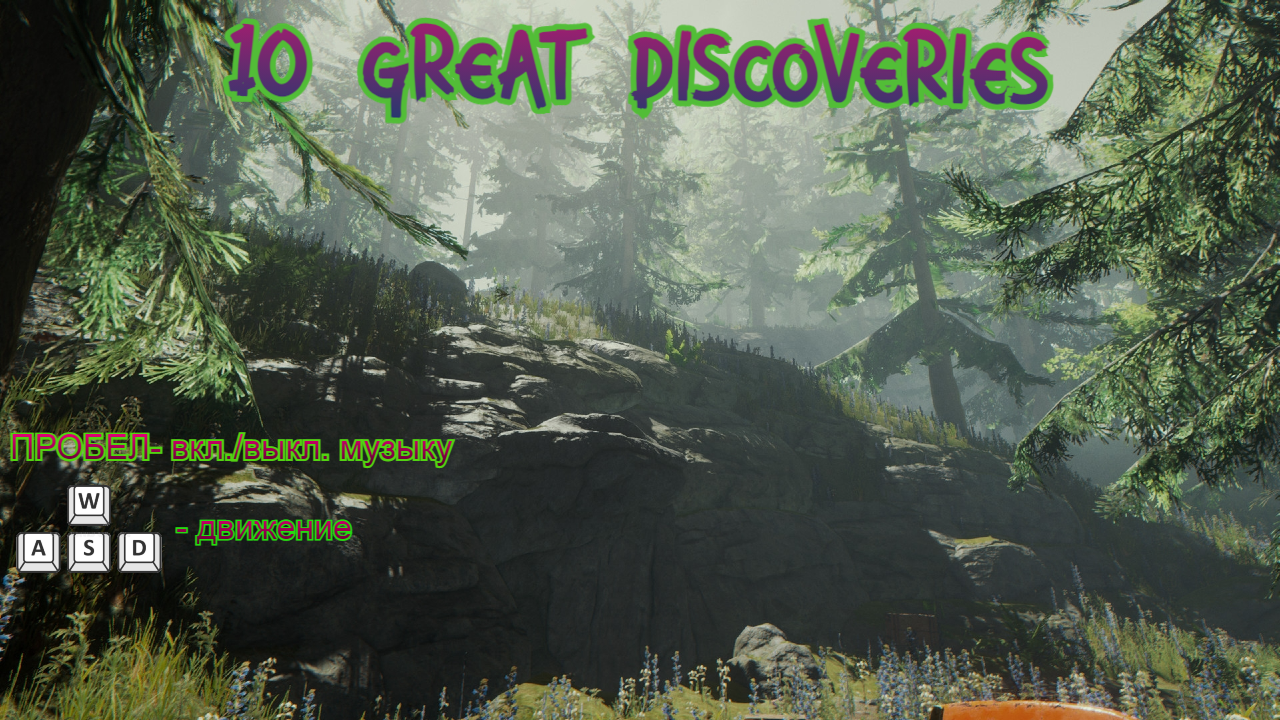
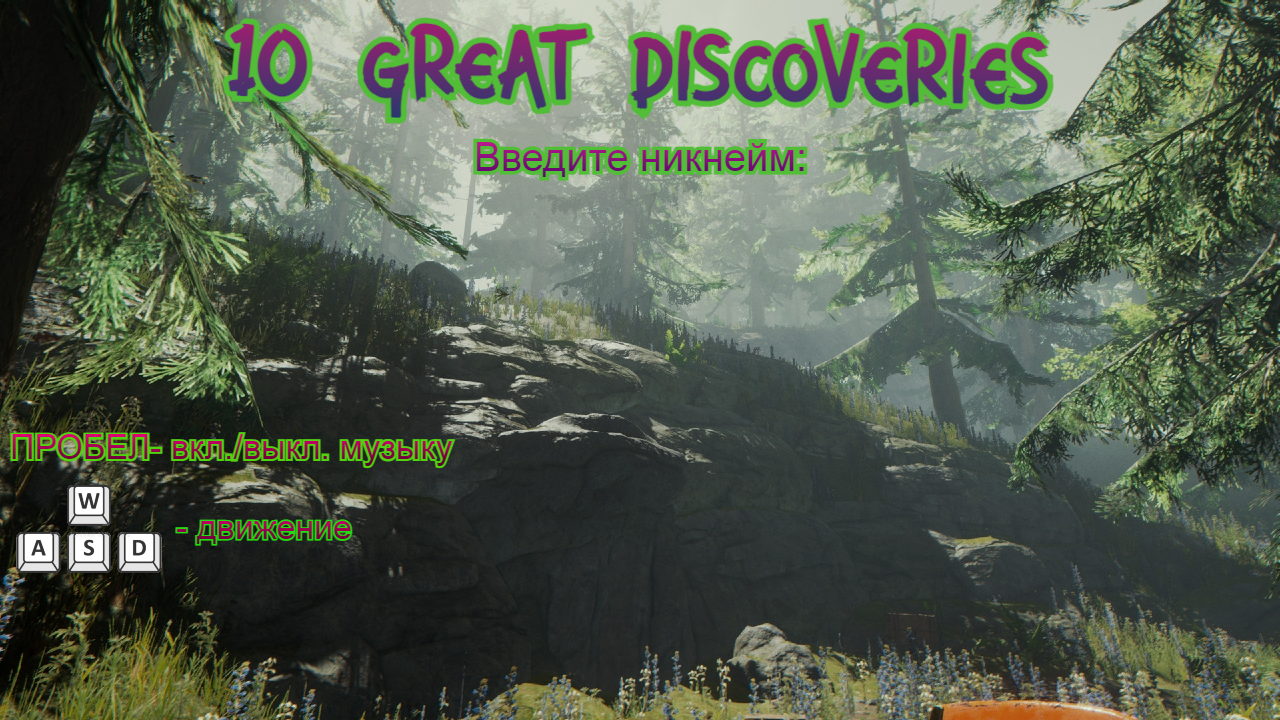
add nickname input and now color and background.png

Changed region(s): [[0.3438, 0.1833, 0.6562, 0.2444]]

diff --git a/functions/start_menu.py b/functions/start_menu.py
@@ -6,25 +6,25 @@ from levels import levels
 
 
 def start_menu(screen):
-    font = pygame.font.Font(None, 32)
-    input_box = pygame.Rect(100, 100, 140, 32)
-    color_inactive = pygame.Color('lightskyblue3')
-    color_active = pygame.Color('dodgerblue2')
+    font = pygame.font.Font(None, 50)
+    input_box = pygame.Rect(475, 190, 330, 40)
+    color_inactive = pygame.Color('#A719A3')
+    color_active = pygame.Color('#FF0000')
     color = color_inactive
     active = False
     text = ""
-    done = False
+    txt_surface = font.render(text, True, color)
     while levels.menu:
         for event in pygame.event.get():
             if event.type == pygame.QUIT:
                 terminate()
             if event.type == pygame.KEYDOWN:
-                if event.key == pygame.K_RETURN:
-                    text = ""
-                elif event.key == pygame.K_BACKSPACE:
-                    text = text[:-1]
-                else:
-                    text += event.unicode
+                if active:
+                    if event.key == pygame.K_BACKSPACE:
+                        text = text[:-1]
+                    else:
+                        if txt_surface.get_width() < 300:
+                            text += event.unicode
                 if event.key == pygame.K_SPACE:
                     flPause = not levels.flPause
                     if flPause:
@@ -41,7 +41,11 @@ def start_menu(screen):
         screen.blit(menu_background, (0, 0))
 
         start_btn = MenuButton(480, 145, (13, 162, 58), (23, 204, 50), screen)
-        start_btn.draw(410, 225, "Начать игру", 120)
+        start_btn.draw(410, 250, "Начать игру", 120)
+
+        txt_surface = font.render(text, True, color)
+        screen.blit(txt_surface, (input_box.x + 5, input_box.y + 5))
+        pygame.draw.rect(screen, color, input_box, 2)
 
         levels.menu = not start_btn.clicked
         pygame.display.update()

diff --git a/main.py b/main.py
@@ -16,6 +16,8 @@ screen = pygame.display.set_mode((WIDTH, HEIGHT))
 pygame.display.set_caption('10 GREAT DISCOVERIES')
 CLICK_SOUND = pygame.mixer.Sound("sounds/button.wav")
 
+clock = pygame.time.Clock()
+
 start_menu(screen)
 
 while lvl_number <= 10:
@@ -24,5 +26,5 @@ while lvl_number <= 10:
     if answer:
         lvl_number += 1
     levels.level = True
-
+    clock.tick(FPS)
 terminate()

diff --git a/settings.py b/settings.py
@@ -7,4 +7,4 @@ TILE_HEIGHT = 40
 TILE_WIDTH = 40
 MUSIC_SETTINGS = 44100, -16, 1, 512
 END_VIDEO = VideoFileClip('video/123.mp4')
-
+FPS = 60
